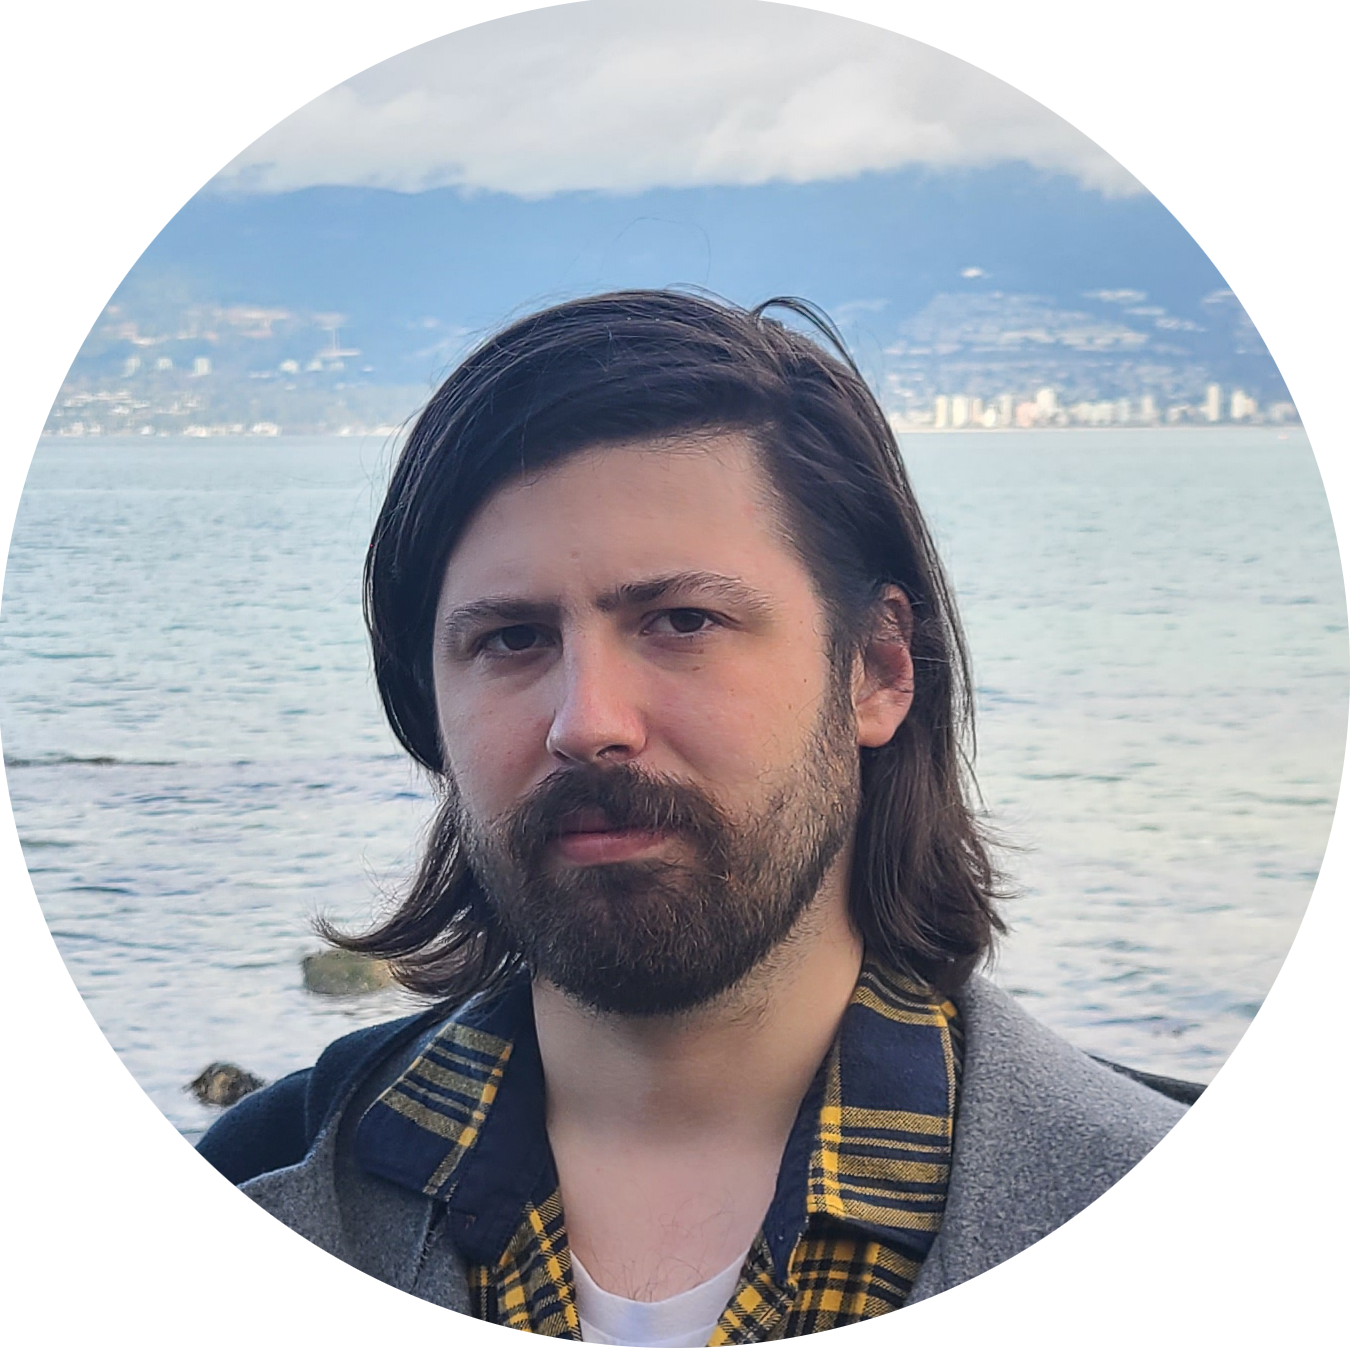
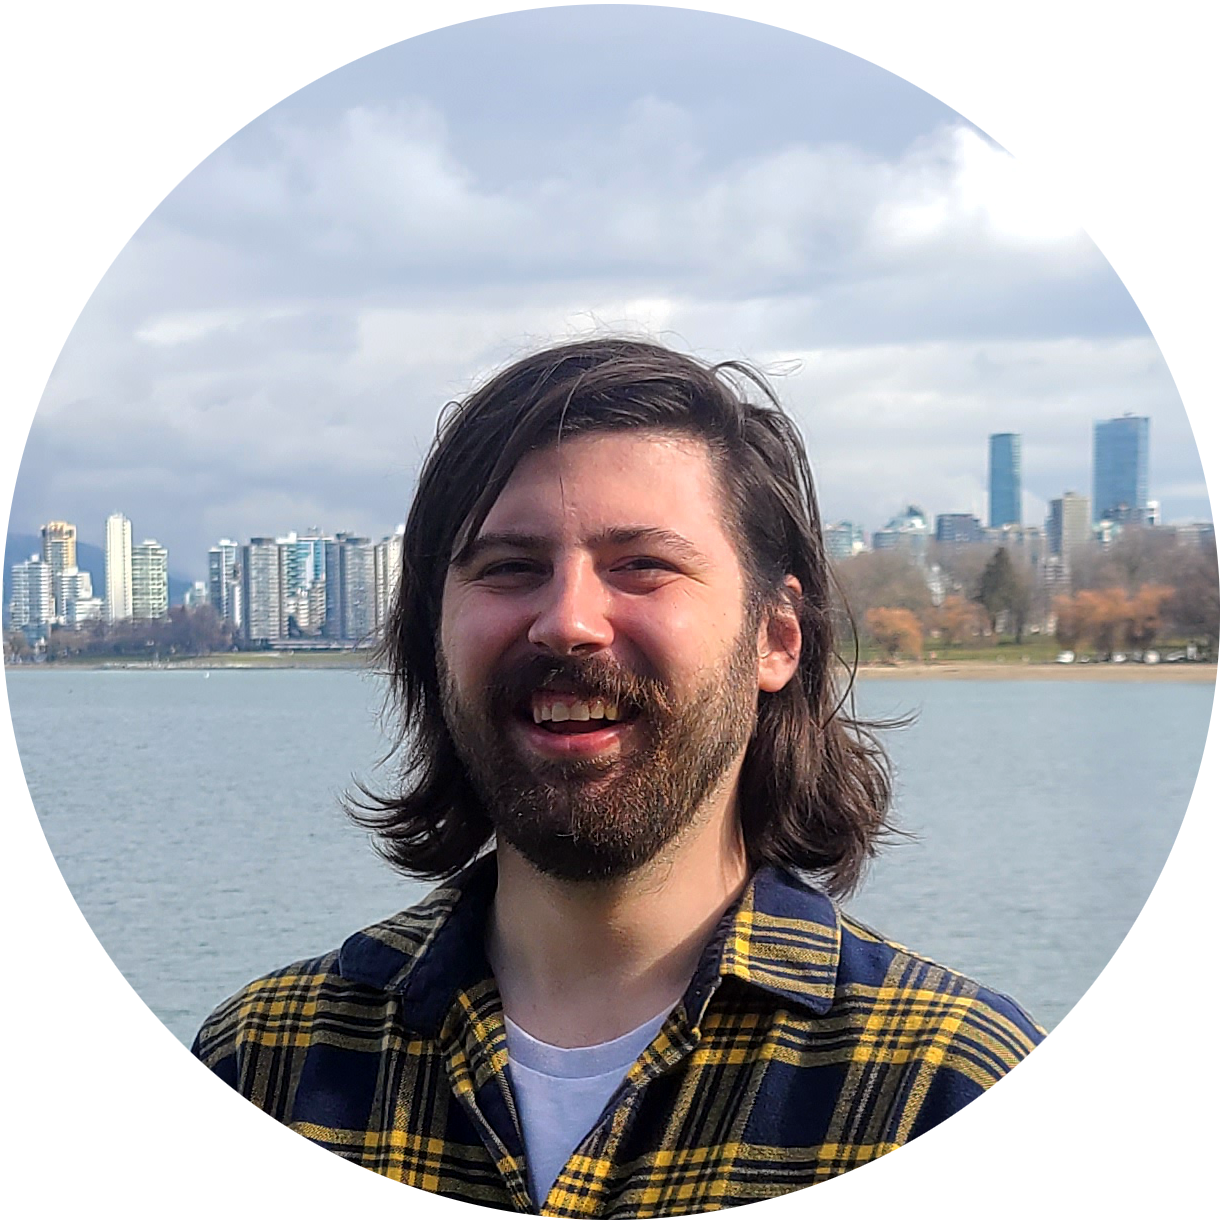
changed profile pic

diff --git a/src/components/Main.js b/src/components/Main.js
@@ -1,6 +1,6 @@
 import PropTypes from 'prop-types'
 import React from 'react'
-import profile from '../images/Profile-Pic.png'
+import profile from '../images/Profile-Pic1.png'
 import tadoo from '../images/tadoo-banner.jpg'
 import tadooMobile from '../images/mobile-tadoo-banner.jpg'
 import matchr from '../images/matchr-banner.jpg'
